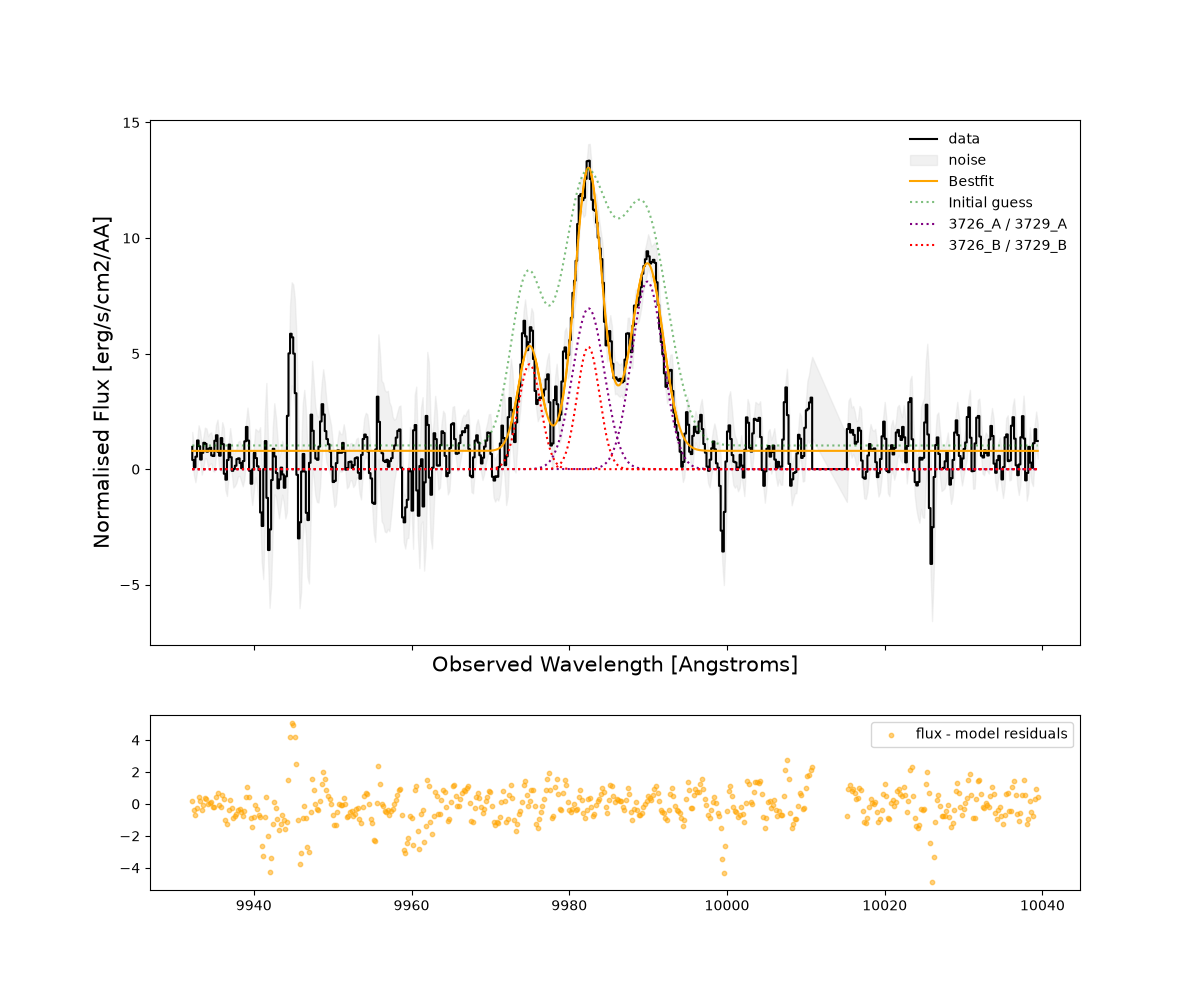
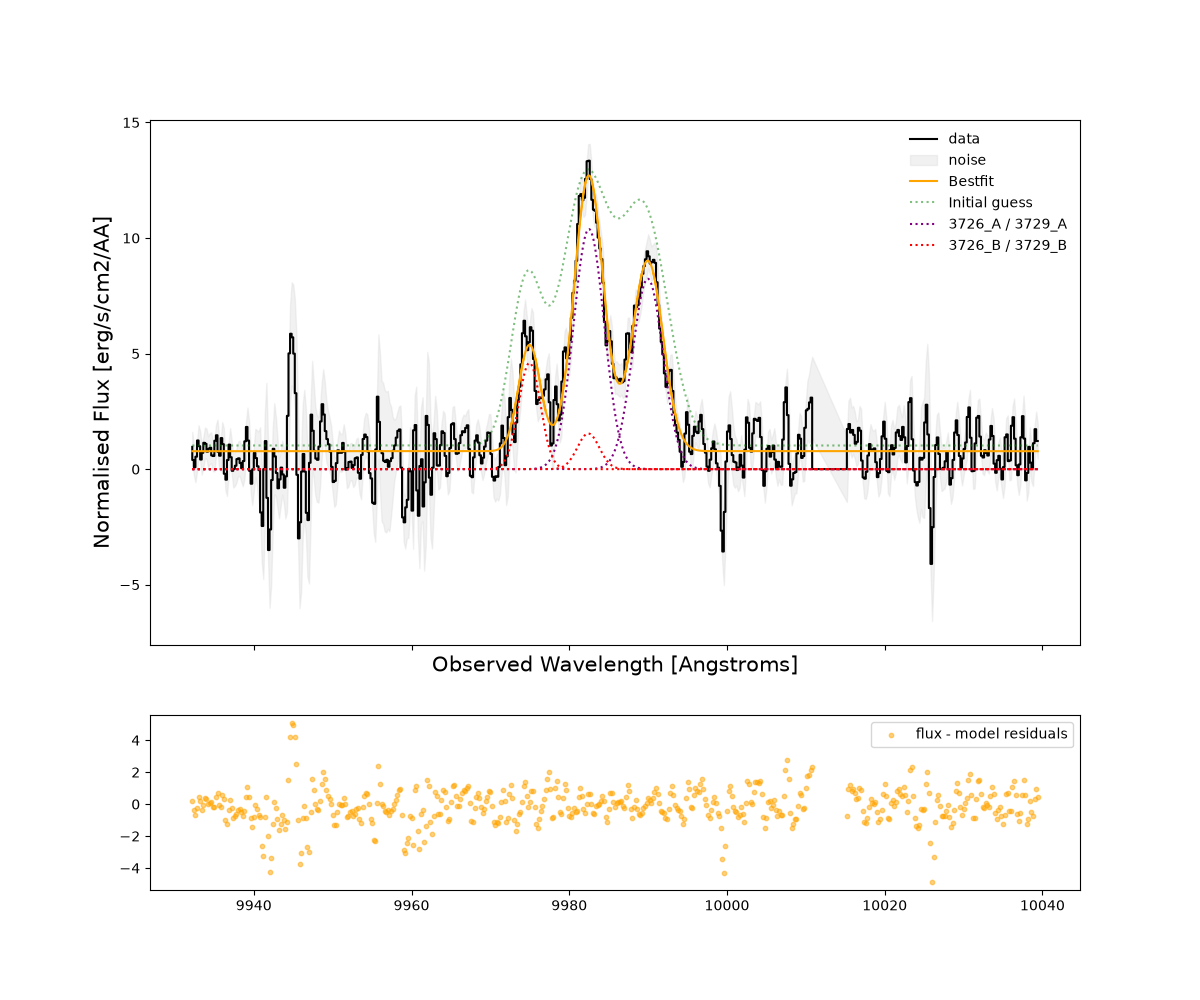
4 gaussian fit for halpha is bad, only 50% under 1sig. go back to 5 gaussian fit

diff --git a/infinite_gaussians.py b/infinite_gaussians.py
@@ -69,14 +69,7 @@ noise_fit = noise_clean[noise_peak_mask]
 sigma_instr = 17569 / (5600 * 2.355)
 
 gauss_guesses = {
-    '1': {
-        'z_guess' : z_A + 0.0007,
-        'amplitude': 5,
-        'stddev': 2,
-        'stddev_bounds': (0, 5),
-        'amplitude_bound': (1, 15),
-        'mean_range': 3  },   
-     '2': {
+     '1': {
         # main core of source A
         'z_guess': z_A + 0.0001,
         'amplitude': 12,
@@ -85,7 +78,7 @@ gauss_guesses = {
         'amplitude_bound': (2, None),
         'mean_range': 3,
     },
-    '3': {
+    '2': {
         'z_guess': z_B + 0.0004,
         'amplitude': 2,
         'stddev': 2.2,
@@ -93,7 +86,7 @@ gauss_guesses = {
         'amplitude_bound': (1, None),
         'mean_range': 1.5,
     },
-    '4': {
+    '3': {
         'z_guess': z_B,
         'amplitude': 8,
         'stddev': 2.2,
@@ -101,7 +94,7 @@ gauss_guesses = {
         'amplitude_bound': (1, None),
         'mean_range': 5,
     },
-    '5': {
+    '4': {
         'z_guess' : z_B - 0.0005,
         'amplitude': 5,
         'stddev': 2,
@@ -145,11 +138,6 @@ ax.axvline(line * (1 + gauss_guesses['4']['z_guess']),
            alpha=0.5,
            lw=0.8)
 
-ax.axvline(line * (1 + gauss_guesses['5']['z_guess']),
-           color='red',
-           ls='--',
-           alpha=0.5,
-           lw=0.8)
 
 #ax.axvspan(11622.6, 11624.4, color='pink', alpha=0.2, label='masked noise')
 
@@ -191,14 +179,14 @@ gs_1 = create_gaussians('1')
 gs_2 = create_gaussians("2")
 gs_3 = create_gaussians("3")
 gs_4 = create_gaussians("4")
-gs_5 = create_gaussians("5")
+#gs_5 = create_gaussians("5")
 
 # also make a continuum
 continuum = models.Const1D(amplitude=np.nanmedian(flux_clean),
                            name="continuum")  #makes a flat baseline
 
 # combine into a compound model
-concat_gaussians = gs_1 + gs_2 + gs_3  + gs_4 + gs_5 + [
+concat_gaussians = gs_1 + gs_2 + gs_3  + gs_4 +  [
     continuum
 ]
 compound_model = reduce(operator.add, concat_gaussians)
@@ -242,15 +230,15 @@ ax[0].plot(lam_model,
            lw=2)
 
 # individual components
-cont_m = bestfit_model[5]
+cont_m = bestfit_model[4]
 colors = {
     "1": "purple",
     "2": "royalblue",
     "3": "crimson",
     "4": "teal",
-    "5": 'orange',
+   # "5": 'orange',
 }
-for i, label in enumerate(["1", "2", "3", '4', '5']):
+for i, label in enumerate(["1", "2", "3", '4']):
     comp = bestfit_model[i]
     ax[0].plot(lam_model,
                comp(lam_model) + cont_m(lam_model),

diff --git a/ori_gaussian_fitting.py b/ori_gaussian_fitting.py
@@ -270,9 +270,10 @@ ax[0].set_ylabel("Normalised Flux [erg/s/cm2/AA]", fontsize=15)
 ax[0].legend(frameon=False)
 
 # plot the residuals (data - model) in the second subplot
+residual_sigma = (flux_clean - bestfit_model(lam_clean))/noise_clean
 ax[1].scatter(
     lam_clean,
-    (flux_clean - bestfit_model(lam_clean))/noise_clean,
+    residual_sigma,
     s=10,
     c="orange",
     label="(flux - model)/noise",
@@ -283,6 +284,10 @@ ax[1].axhline(2, ls = '--', lw = 0.5, c= 'red')
 ax[1].axhline(-1, ls = '-.', lw = 0.5, c = 'red')
 ax[1].axhline(-2, ls = '--', lw = 0.5, c= 'red')
 ax[1].legend(frameon=True)
+print(
+     f"Within 1sig: {np.sum(np.abs(residual_sigma)<=1)} ({(100*(np.sum(np.abs(residual_sigma)<=1))/len(residual_sigma)):.2f}%), "
+     f"Within 2sig: {np.sum(np.abs(residual_sigma) <= 2)} ({(100*(np.sum(np.abs(residual_sigma)<=2))/len(residual_sigma)):.2f}%), "
+     f"Within 3sig: {np.sum(np.abs(residual_sigma) <= 3)} ({ (100*(np.sum(np.abs(residual_sigma)<=3))/len(residual_sigma)):.2f}%)")
 plt.show()
 
 # save

diff --git a/spectra_plotting.py b/spectra_plotting.py
@@ -137,9 +137,9 @@ noise_nir_plot = noise_nir_quad if noise_in_quadrature else noise_nir_smooth
 z_A = 1.679
 z_B = 1.677  #this one makes the peaks line up better with the lines
 
-lam_uvb_rest = lam_uvb_trim / (1 + z_B)
-lam_vis_rest = lam_vis_trim / (1 + z_B)
-lam_nir_rest = lam_nir_trim / (1 + z_B)
+lam_uvb_rest = lam_uvb_trim / (1 + z_A)
+lam_vis_rest = lam_vis_trim / (1 + z_A)
+lam_nir_rest = lam_nir_trim / (1 + z_A)
 
 #load in reference
 horseshoe_ref = np.genfromtxt('./absorption_wls/horseshoe_atoms.dat',

diff --git a/oii_gaussian_fitting.py b/oii_gaussian_fitting.py
@@ -218,8 +218,8 @@ lineratio_A = lines[0] / lines[1]
 g_3726A.mean.tied = create_mean_tie(1, lineratio_A)
 g_3726A.stddev.tied = create_std_tie(1)
 g_3726A.amplitude.bounds = (0,
-                            wing_bestfit.amplitude_0 / 1.1
-                            )  # removed lower bound on amplitude 
+                            wing_bestfit.amplitude_0 / 1.5
+                            )  
 
 g_3729B = models.Gaussian1D(name=f'{line_names[1]}_B',
                             mean=lines[1] * (z_B + 1),